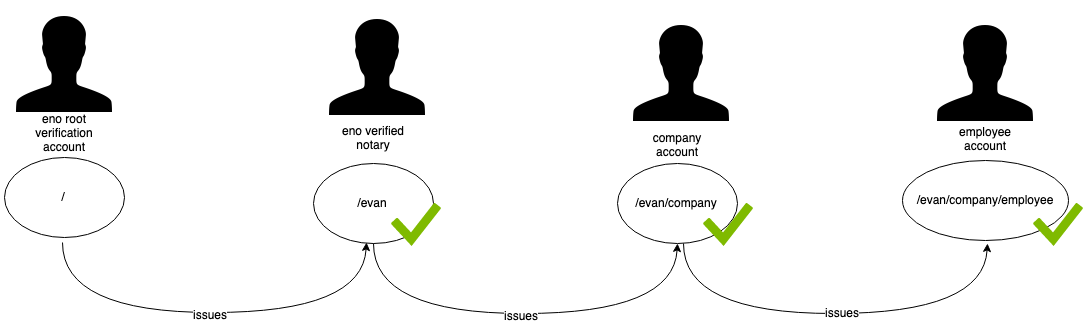
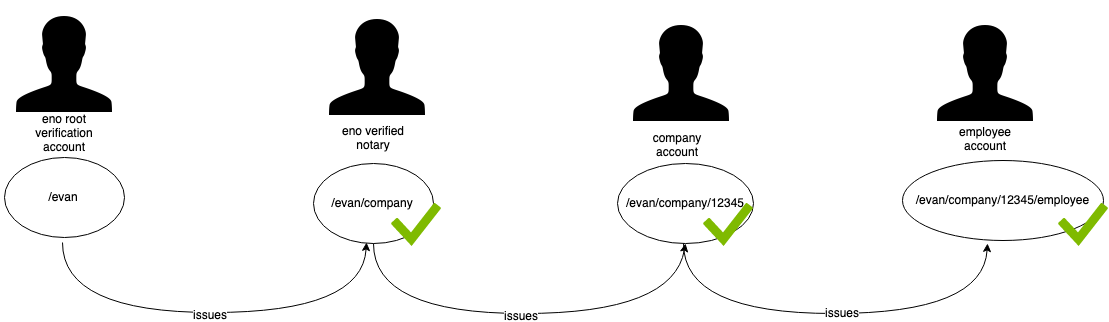
replace with company/12345

diff --git a/docs/2000_how_it_works/2200_services/2240_verification_management.md b/docs/2000_how_it_works/2200_services/2240_verification_management.md
@@ -50,17 +50,17 @@ To be safe that the issued verifications are completely valid, the root verifica
 This means, if you want to verify the whole chain for a given verification you take the current verification path and check every section of the path if the account that received the portion has a proper verification from another account.
 
 
-For example we take a verification with the path `/evan/company/employee`.
+For example we take a verification with the path `/evan/company/12345/employee`.
 
 ![ENO verification](/docs/2000_how_it_works/img/eno_verification.png)
 
-The verification with the path `/evan/company/employee` was given to the identity `0xc2300E1bAC9d3f164F65c9c29f11f8F34Bf83Db4` and the API now tries to verify the validity of the verfication with the trust chain.
+The verification with the path `/evan/company/12345/employee` was given to the identity `0xc2300E1bAC9d3f164F65c9c29f11f8F34Bf83Db4` and the API now tries to verify the validity of the verfication with the trust chain.
 
-To verify this we must get the issued identity which has issued the `/evan/company/employee` verification for the target identity. This information is provided by the API response from the `runtime.verifications.getVerifications`function. The result of this function returns that the issuer of the verification has the identity `0x4628Cd53af50192784Fb81470688575d4DD0BB82`
+To verify this we must get the issued identity which has issued the `/evan/company/12345/employee` verification for the target identity. This information is provided by the API response from the `runtime.verifications.getVerifications`function. The result of this function returns that the issuer of the verification has the identity `0x4628Cd53af50192784Fb81470688575d4DD0BB82`
 
-With this information we can check if the identity `0x4628Cd53af50192784Fb81470688575d4DD0BB82` now has a valid verification with the path `/evan/company` given from another identity. We use the same function as above and get back another identity and doing the same until we arrive at the path `/evan`.
+With this information we can check if the identity `0x4628Cd53af50192784Fb81470688575d4DD0BB82` now has a valid verification with the path `/evan/company/12345` given from another identity. We use the same function as above and get back another identity and doing the same until we arrive at the path `/evan`.
 
-In this example, verifications with the path `/evan/company` can only be issued by ENO verified notaries. The company verification is issued to companies which are verified by a [service based on evan.network](/docs/first_steps/power_apps/notary-verification.html).
+In this example, verifications with the path `/evan/company/12345` can only be issued by ENO verified notaries. The company verification is issued to companies which are verified by a [service based on evan.network](/docs/first_steps/power_apps/notary-verification.html).
 
 When we arrive at the `/evan` verification we now have the root verification on evan.network. To have a root trust anchor that issues the `/evan` verification, the ENO created identities (which issue verifications) on the testcore and the core network. Those are owned by accounts defined in the chain specification of the respective networks. The chain specification defines the genesis block for the blockchain network and can not be edited after the network has been started. The specifications are publicly visible in the evan.network github space and the whole network relies on this.
 
